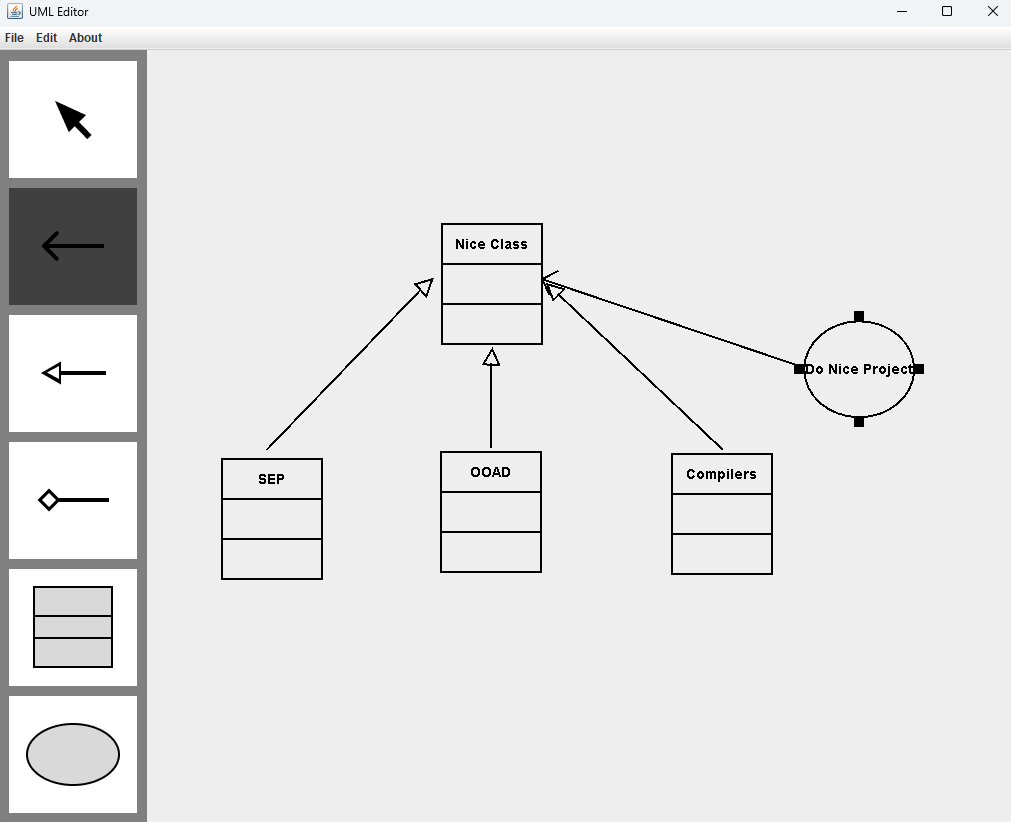
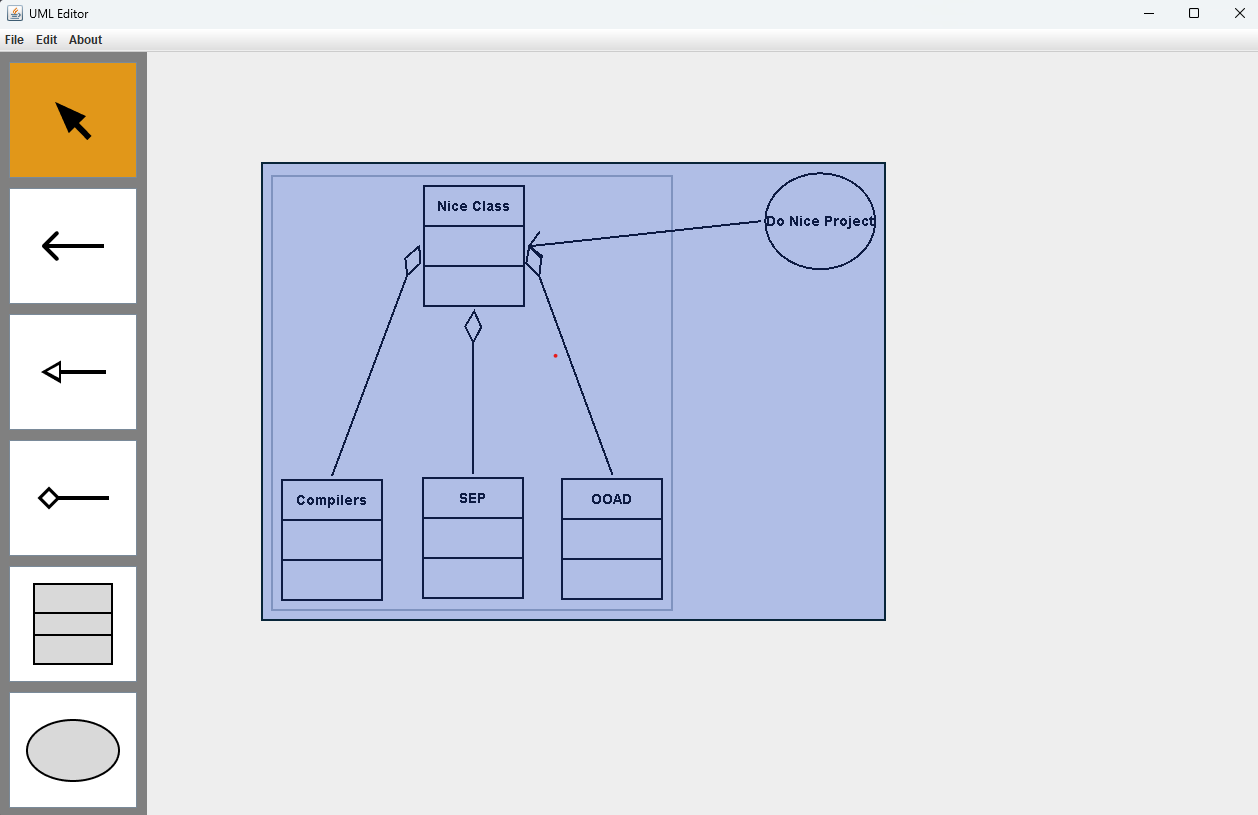
📑 docs: update README.md

diff --git a/README.md b/README.md
@@ -4,7 +4,6 @@
   <a href="https://github.com/xxrjun/uml-editor">
     <img src="assets/banner.png" alt="Logo" width="800">
   </a>
-
 <h3 align="center">UML Editor</h3>
 
   <p align="center">
@@ -104,9 +103,9 @@
 - Improve code quality. More OO.
 - Documentation
 
-## Project Structure
-
 ## Usage
+
+You can just download [🌔 v1.0](https://github.com/xxrjun/uml-editor/releases/tag/v1.0) and run the jar file.
 
 ### Build
 
@@ -117,13 +116,83 @@ mvn clean package
 ### Run
 
 ```bash
-java -jar target/uml-editor-1.0.jar
+java -jar target/uml-editor-1.0-jar-with-dependencies.jar
 ```
 
+## Project File Structure
+    
+```bash 
+.
+|   
++---assets
+|       banner-origin.png
+|       banner.png
+|       class-diagram.png
+|
++---docs
+|       Development.md
+|       requirement - use case format.pdf
+|
++---src
+|   +---main
+|   |   +---java
+|   |   |   \---com
+|   |   |       \---xxrjun
+|   |   |           |   UMLEditorApplication.java
+|   |   |           |
+|   |   |           +---components
+|   |   |           |   |   Canvas.java
+|   |   |           |   |   MenuBar.java
+|   |   |           |   |   ToolPanel.java
+|   |   |           |   |
+|   |   |           |   \---uml
+|   |   |           |       |   UMLGroup.java
+|   |   |           |       |   UMLObject.java
+|   |   |           |       |   UMLPort.java
+|   |   |           |       |
+|   |   |           |       +---basics
+|   |   |           |       |       ClassBasicObject.java
+|   |   |           |       |       UMLBasicObject.java
+|   |   |           |       |       UseCaseBasicObject.java
+|   |   |           |       |
+|   |   |           |       \---connectionlines
+|   |   |           |               AssociationLine.java
+|   |   |           |               CompositionLine.java
+|   |   |           |               GeneralizationLine.java
+|   |   |           |               UMLConnectionLine.java
+|   |   |           |
+|   |   |           +---enums
+|   |   |           |       EditFunctionTypes.java
+|   |   |           |       ToolButtonConfig.java
+|   |   |           |       UMLObjectTypes.java
+|   |   |           |
+|   |   |           \---modes
+|   |   |                   CreateBasicUMLObject.java
+|   |   |                   CreateUMLConnectionLine.java
+|   |   |                   Select.java
+|   |   |                   UMLFactory.java
+|   |   |                   UMLFactoryInterface.java
+|   |   |                   UMLMode.java
+|   |   |
+|   |   \---resources
+|   |       \---images
+|   |               association-line.png
+|   |               class.png
+|   |               composition-line.png
+|   |               generalization-line.png
+|   |               select.png
+|   |               use-case.png
+|   |
+|   \---test
+|       \---java
+...
+```
 
 ## Class Diagram
 
-> TODO
+Generated by [UML class diagrams](https://www.jetbrains.com/help/idea/class-diagram.html)
+
+![Class Diagram](./assets/class-diagram.png)
 
 
 ## References
